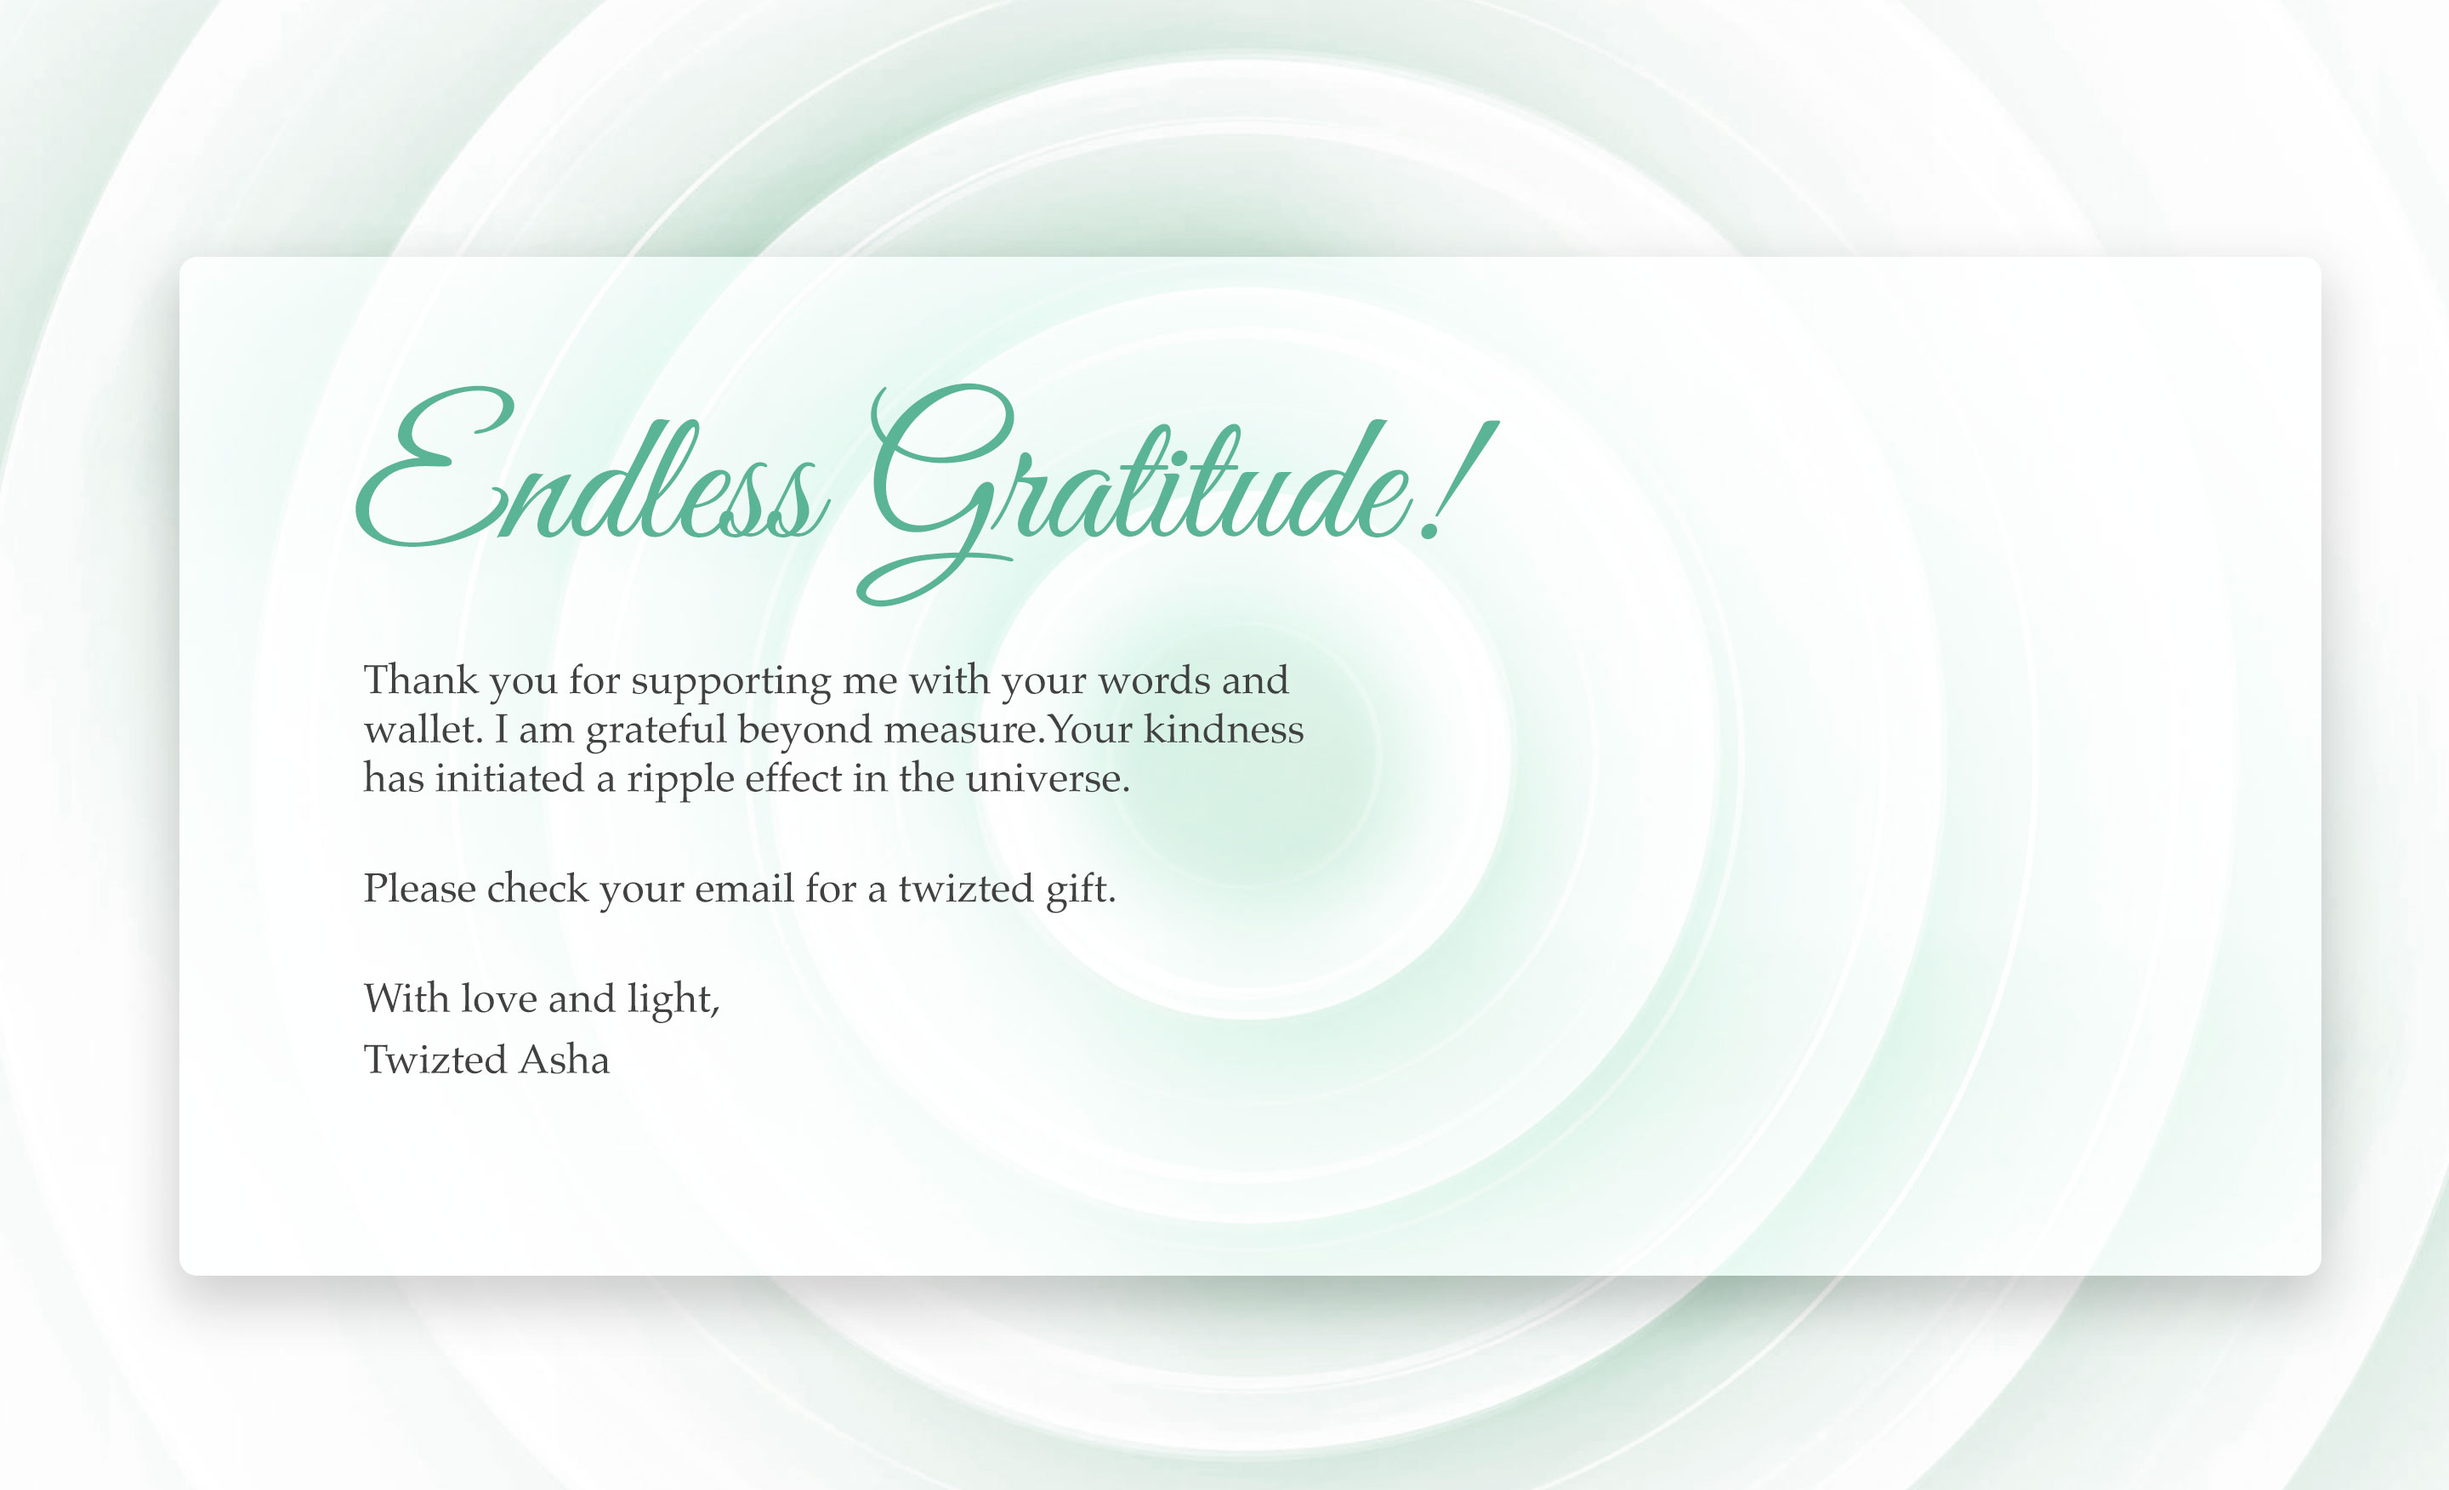
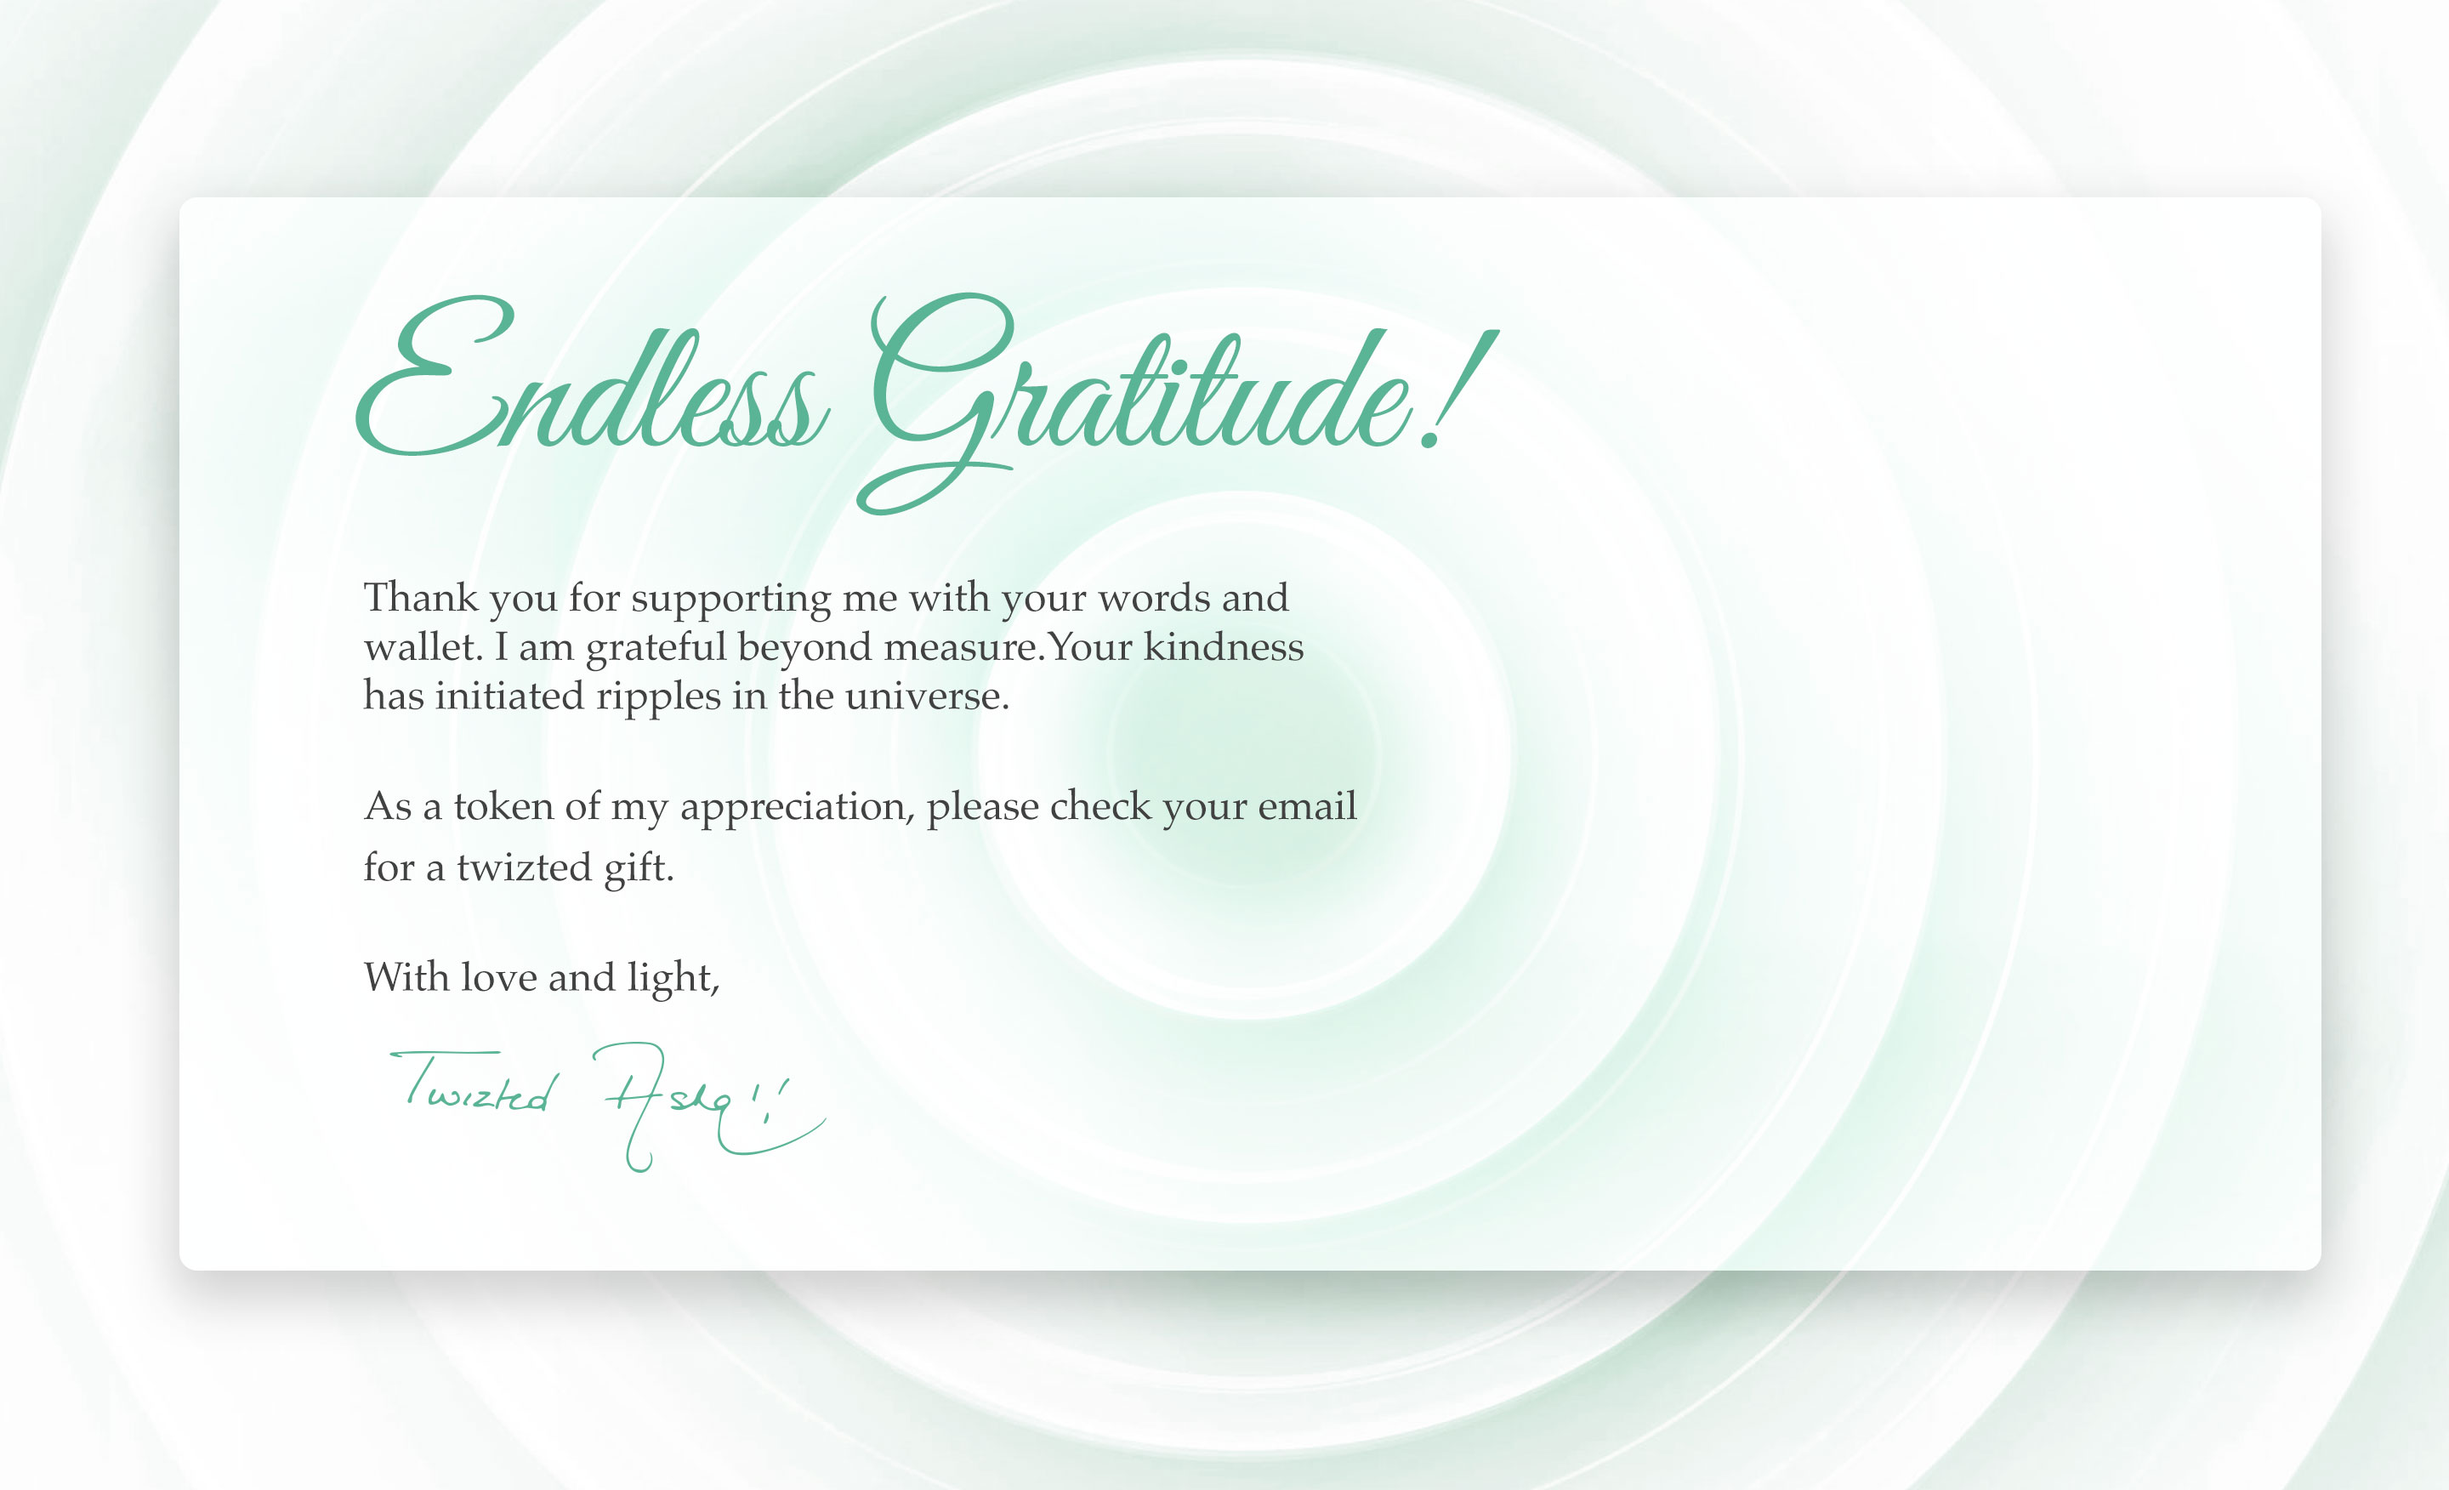
updated image for mobile

diff --git a/static/css/new-update.css b/static/css/new-update.css
@@ -91,3 +91,16 @@
   padding: 3em;
   margin: 60px auto;
 }
+
+.img-res.mobile {
+  display: none;
+}
+
+@media only screen and (max-device-width: 575px) {
+  .img-res {
+    display: none;
+  }
+  .img-res.mobile {
+    display: block;
+  }
+}

diff --git a/content/thank-you.md b/content/thank-you.md
@@ -13,7 +13,8 @@ type = "page"
 +++
 <article>
     <section class="section">
-        <img src="/img/twiztedmyrtle/twz-thank-you-image.jpg" alt="twiztedmyrtle signature" >
+        <img src="/img/twiztedmyrtle/twz-thank-you-image.jpg" class="img-res" alt="thank you for donating to twizted myrtle">
+        <img src="/img/twiztedmyrtle/twz-thank-you-image-mobile.jpg" class="img-res mobile" alt="thank you for donating to twizted myrtle">
     </section>
     <!-- <section class="section">
         <div class="background-overlay" style="background-color: rgba(255,255,255,0);"></div>
